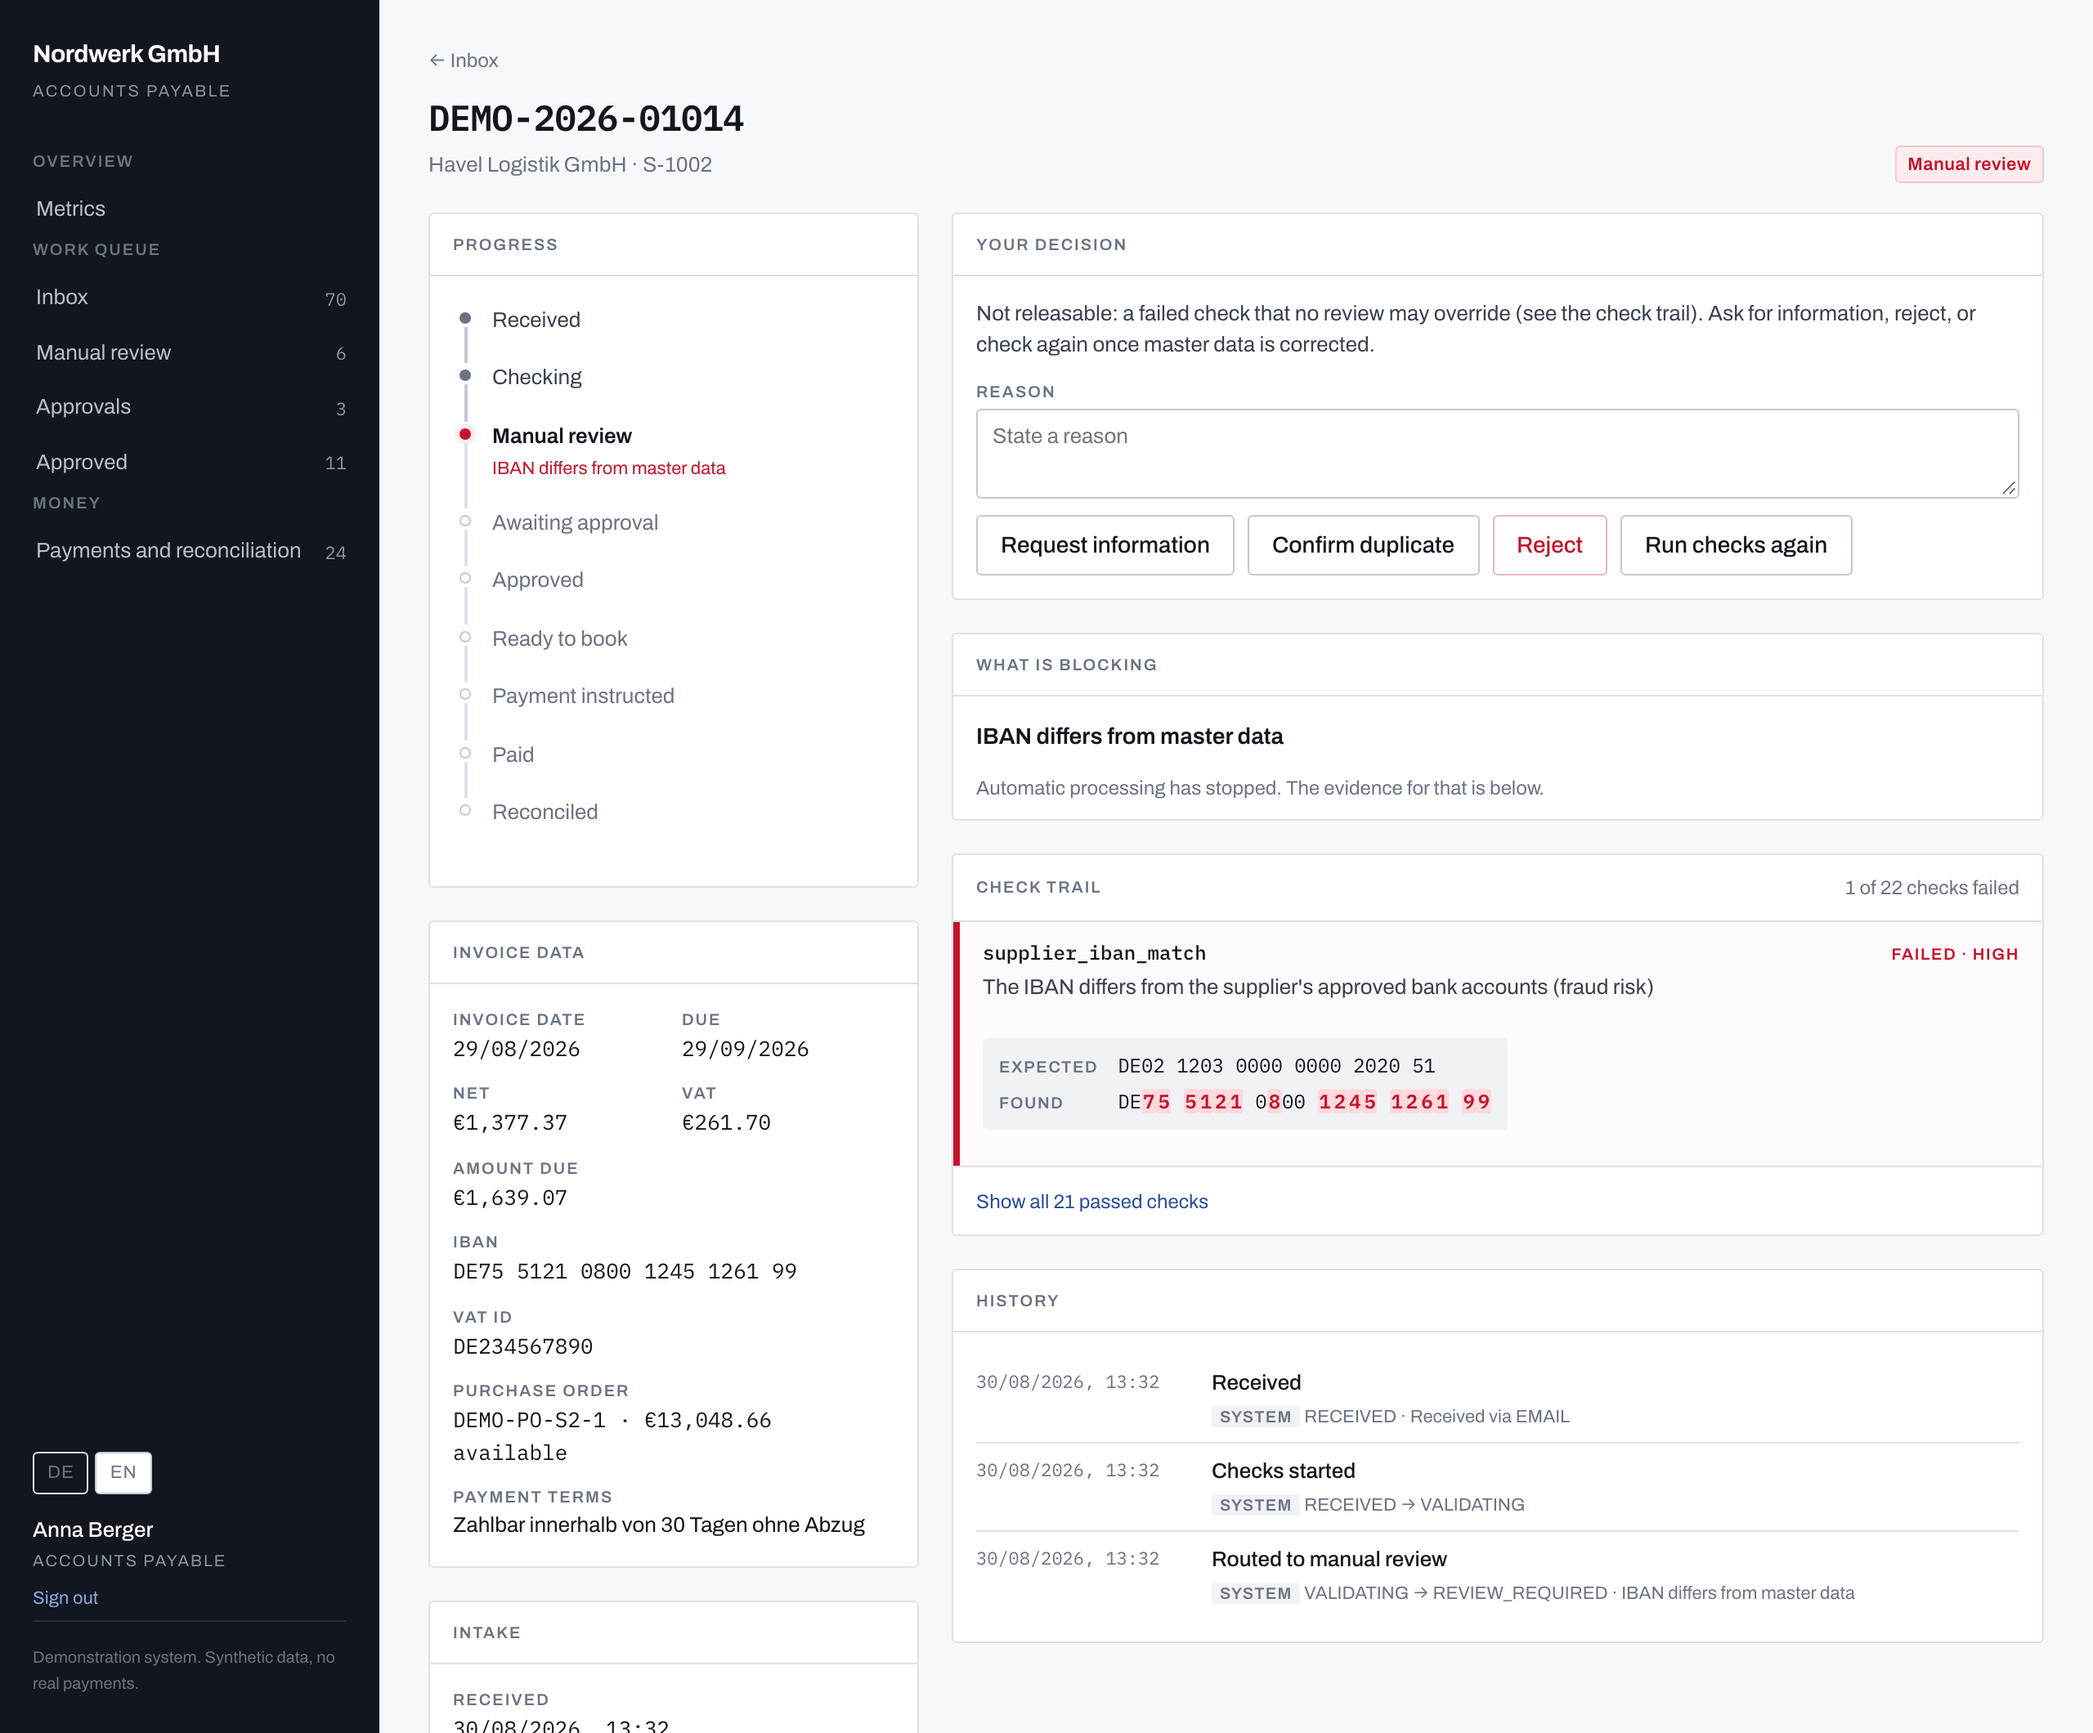
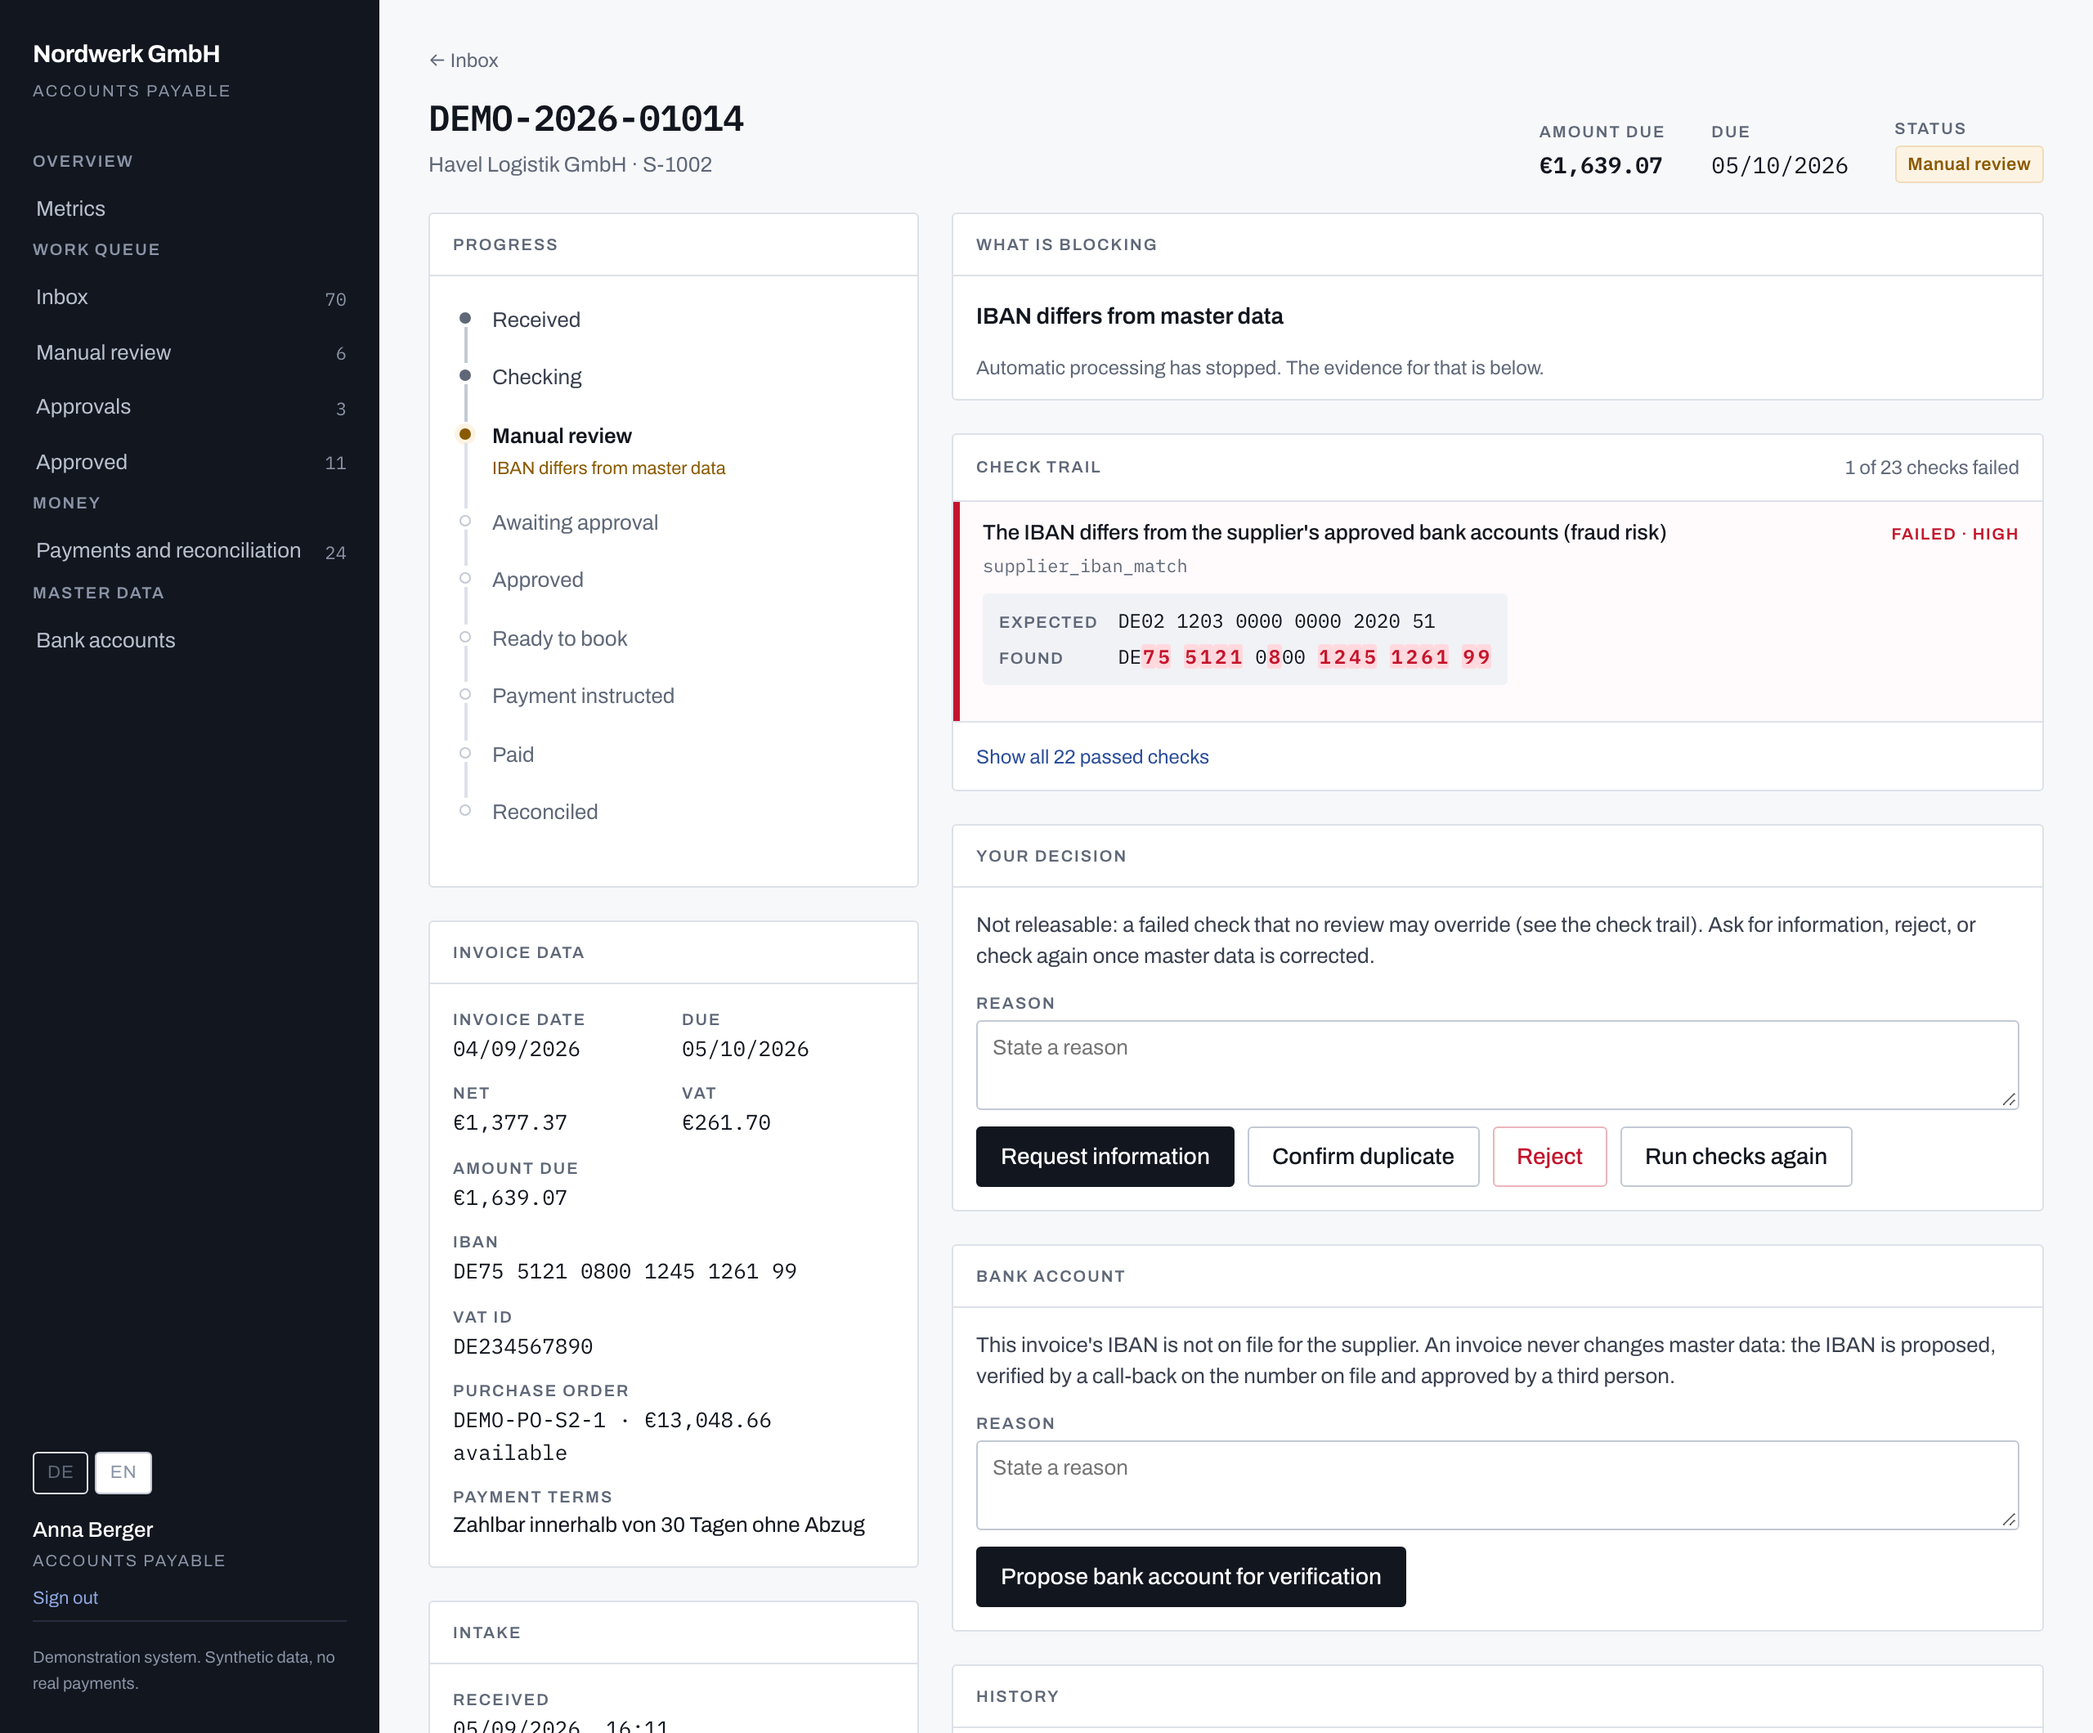
docs: screenshots and the video storyboard follow the polished screens
The invoice screenshot shows the summary strip, blocker and evidence first,
one filled button and translated history; the dashboard's reconciliation
count is amber. The storyboard describes the evidence row as it now reads.

diff --git a/docs/DEMO_VIDEO.md b/docs/DEMO_VIDEO.md
@@ -99,7 +99,7 @@ every pause if you need more room.
 |---|---|
 | **View** | same page, check trail in frame |
 | **Click** | nothing — let it sit |
-| **On screen** | `supplier_iban_match · FAILED · HIGH`, EXPECTED vs FOUND, differing characters marked in red |
+| **On screen** | the sentence "The IBAN differs from the supplier's approved bank accounts (fraud risk)" with `FAILED · HIGH`, the code `supplier_iban_match` beneath, EXPECTED vs FOUND with the differing characters marked in red |
 
 > "It does not say 'suspicious'. It says what it expected, what the document
 > carried, and marks the characters that differ. A person decides in seconds
